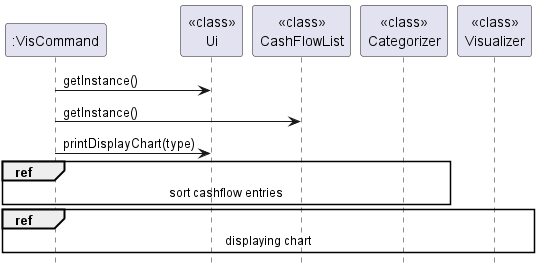
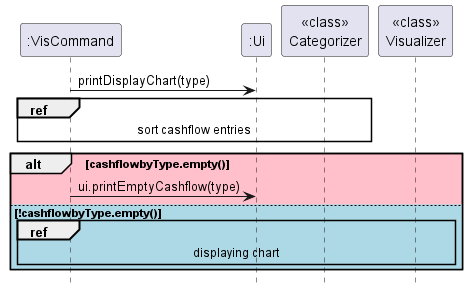
Fix UML seq diagram

diff --git a/src/main/java/seedu/financialplanner/commands/VisCommand.java b/src/main/java/seedu/financialplanner/commands/VisCommand.java
@@ -1,6 +1,5 @@
 package seedu.financialplanner.commands;
 
-import org.apache.commons.lang3.StringUtils;
 import seedu.financialplanner.exceptions.FinancialPlannerException;
 import seedu.financialplanner.cashflow.CashflowList;
 import seedu.financialplanner.utils.Ui;
@@ -45,7 +44,7 @@ public class VisCommand extends Command {
 
         HashMap<String, Double> cashflowbyType = Categorizer.sortType(CashflowList.getInstance(), type);
         if (cashflowbyType.isEmpty()) {
-            ui.showMessage(StringUtils.capitalize(type) + " is empty... Nothing to visualize");
+            ui.printEmptyCashFlow(type);
             return;
         }
         ui.printDisplayChart(type, chart);

diff --git a/src/main/java/seedu/financialplanner/utils/Ui.java b/src/main/java/seedu/financialplanner/utils/Ui.java
@@ -204,4 +204,8 @@ public class Ui {
             showMessage("Unknown command");
         }
     }
+
+    public void printEmptyCashFlow(String type) {
+        showMessage(StringUtils.capitalize(type) + " is empty... Nothing to visualize");
+    }
 }
